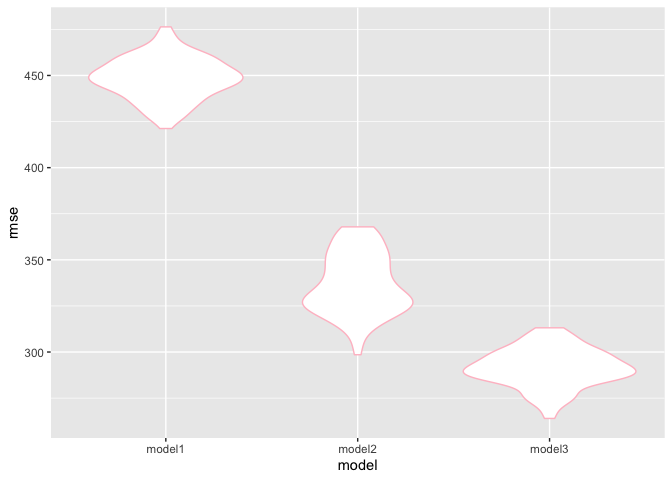
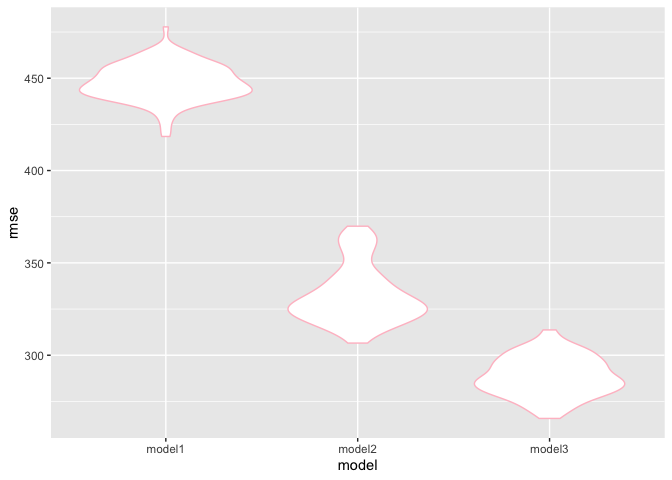
finishing writing explanations

diff --git a/p8105_hw6_unp2000.md b/p8105_hw6_unp2000.md
@@ -150,17 +150,25 @@ cv_bwt
     ## # A tibble: 100 x 9
     ##    train test  .id   bw_model1 bw_model2 bw_model3 rmse_model1 rmse_model2
     ##    <lis> <lis> <chr> <list>    <list>    <list>          <dbl>       <dbl>
-    ##  1 <res… <res… 001   <lm>      <lm>      <lm>             447.        325.
-    ##  2 <res… <res… 002   <lm>      <lm>      <lm>             444.        322.
-    ##  3 <res… <res… 003   <lm>      <lm>      <lm>             447.        332.
-    ##  4 <res… <res… 004   <lm>      <lm>      <lm>             460.        332.
-    ##  5 <res… <res… 005   <lm>      <lm>      <lm>             448.        327.
-    ##  6 <res… <res… 006   <lm>      <lm>      <lm>             463.        332.
-    ##  7 <res… <res… 007   <lm>      <lm>      <lm>             446.        326.
-    ##  8 <res… <res… 008   <lm>      <lm>      <lm>             473.        364.
-    ##  9 <res… <res… 009   <lm>      <lm>      <lm>             446.        320.
-    ## 10 <res… <res… 010   <lm>      <lm>      <lm>             459.        366.
+    ##  1 <res… <res… 001   <lm>      <lm>      <lm>             438.        307.
+    ##  2 <res… <res… 002   <lm>      <lm>      <lm>             449.        352.
+    ##  3 <res… <res… 003   <lm>      <lm>      <lm>             440.        320.
+    ##  4 <res… <res… 004   <lm>      <lm>      <lm>             449.        325.
+    ##  5 <res… <res… 005   <lm>      <lm>      <lm>             448.        328.
+    ##  6 <res… <res… 006   <lm>      <lm>      <lm>             463.        324.
+    ##  7 <res… <res… 007   <lm>      <lm>      <lm>             450.        364.
+    ##  8 <res… <res… 008   <lm>      <lm>      <lm>             459.        341.
+    ##  9 <res… <res… 009   <lm>      <lm>      <lm>             437.        344.
+    ## 10 <res… <res… 010   <lm>      <lm>      <lm>             443.        342.
     ## # … with 90 more rows, and 1 more variable: rmse_model3 <dbl>
+
+Based off of the RMSE distribution of the models, I can see that the
+Model 3 which includes the interaction terms is the best fit for this
+data. Model 1, my predicted model has a high RMSE value which indicates
+that it doesn’t fit the data appropriately. Model 2 which includes some
+of the parameters from Model 3 has an RMSE value in the middle which
+shows that it fits the data better than Model 1 but not as well as Model
+3.
 
 # Problem 2:
 
@@ -251,9 +259,11 @@ plot_1
 
 ![](p8105_hw6_unp2000_files/figure-gfm/unnamed-chunk-12-1.png)<!-- -->
 
-Based on the assumption that our plots are approximately normal, we can
-infer that 95% confidence interval for log(b0\*b1) based off the 2.5%
-and 97.5% quantiles is approximately (1.925, 2.075)
+Based on the plot above, we can see that the distribution of log(b0 \*
+b1) is approximately normal which might be due to the fact that we
+performed a log transformation to log(b0 \* b1).We can infer that 95%
+confidence interval for log(b0\*b1) based off the 2.5% and 97.5%
+quantiles is approximately (1.925, 2.075)
 
 ``` r
 plot_2 = 
@@ -265,6 +275,7 @@ plot_2
 
 ![](p8105_hw6_unp2000_files/figure-gfm/unnamed-chunk-13-1.png)<!-- -->
 
-Based on the assumption that our plots are approximately normal, we can
-infer that the 95% confidence interval for r^2 based off the 2.5% and
-97.5% quantiles is approximately (0.8875, 0.9375)
+Based on the plot above, we can see that the distribution for our r^2
+values is slightly left skewed. We can infer that the 95% confidence
+interval for r^2 based off the 2.5% and 97.5% quantiles is approximately
+(0.8875, 0.9375)
